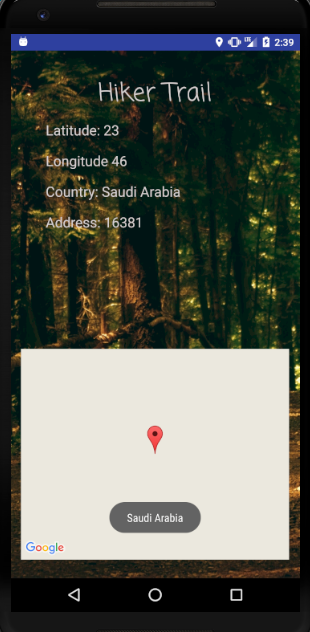
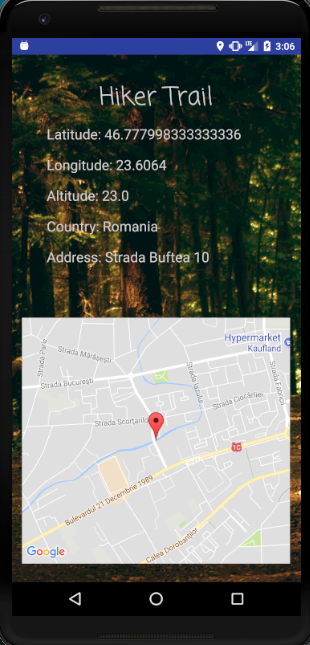
Altitude add

diff --git a/app/src/main/java/com/example/iliutaadrian/hikerwatch/MainActivity.java b/app/src/main/java/com/example/iliutaadrian/hikerwatch/MainActivity.java
@@ -14,7 +14,6 @@ import android.support.v4.app.ActivityCompat;
 import android.support.v4.app.FragmentActivity;
 import android.support.v4.content.ContextCompat;
 import android.widget.TextView;
-import android.widget.Toast;
 
 import com.google.android.gms.maps.CameraUpdateFactory;
 import com.google.android.gms.maps.GoogleMap;
@@ -31,6 +30,7 @@ import java.util.Locale;
 public class MainActivity extends FragmentActivity implements OnMapReadyCallback {
     TextView latitudeText;
     TextView longitudeText;
+    TextView altitudeText;
     TextView countryText;
     TextView adressText;
 
@@ -49,6 +49,7 @@ public class MainActivity extends FragmentActivity implements OnMapReadyCallback
         longitudeText = findViewById(R.id.longitudeText);
         countryText = findViewById(R.id.countryText);
         adressText = findViewById(R.id.adressText);
+        altitudeText = findViewById(R.id.altitudeText);
     }
 
     @Override
@@ -58,6 +59,25 @@ public class MainActivity extends FragmentActivity implements OnMapReadyCallback
             if (grantResults.length > 0 && grantResults[0] == PackageManager.PERMISSION_GRANTED) {
                 locationManager.requestLocationUpdates(LocationManager.GPS_PROVIDER, 5, 10, locationListener);
             }
+        }
+    }
+
+    public void verifyPermision(){
+        if (ContextCompat.checkSelfPermission(this, Manifest.permission.ACCESS_FINE_LOCATION) != PackageManager.PERMISSION_GRANTED) {
+            ActivityCompat.requestPermissions(this, new String[]{Manifest.permission.ACCESS_FINE_LOCATION}, 1);
+        }
+        else{
+            locationManager.requestLocationUpdates(LocationManager.GPS_PROVIDER, 5, 10, locationListener);
+            Location lastLocation = locationManager.getLastKnownLocation(LocationManager.GPS_PROVIDER);
+            map.clear();
+            LatLng location = new LatLng(lastLocation.getLatitude(), lastLocation.getLongitude());
+
+            map.addMarker(new MarkerOptions()
+                    .position(location)
+                    .title("My Location")
+                    .icon(BitmapDescriptorFactory
+                            .defaultMarker(BitmapDescriptorFactory.HUE_RED)));
+            map.moveCamera(CameraUpdateFactory.newLatLngZoom(location, 15));
         }
     }
 
@@ -82,9 +102,9 @@ public class MainActivity extends FragmentActivity implements OnMapReadyCallback
                 try{
                     List<Address> addressList = geocoder.getFromLocation(location.getLatitude(), location.getLongitude(), 1);
                     if(addressList != null && addressList.size()>0){
-                        Toast.makeText(MainActivity.this, addressList.get(0).getCountryName(),Toast.LENGTH_LONG).show();
-                        latitudeText.setText("Latitude: "+(int) addressList.get(0).getLatitude());
-                        longitudeText.setText("Longitude "+(int) addressList.get(0).getLongitude());
+                        latitudeText.setText("Latitude: "+location.getLatitude());
+                        longitudeText.setText("Longitude: "+location.getLongitude());
+                        altitudeText.setText("Altitude: "+location.getAltitude());
                         countryText.setText("Country: "+addressList.get(0).getCountryName());
                         adressText.setText("Address: "+addressList.get(0).getAddressLine(0));
                     }
@@ -103,22 +123,6 @@ public class MainActivity extends FragmentActivity implements OnMapReadyCallback
             public void onProviderDisabled(String s) {}
         };
 
-        if (ContextCompat.checkSelfPermission(this, Manifest.permission.ACCESS_FINE_LOCATION) != PackageManager.PERMISSION_GRANTED) {
-            ActivityCompat.requestPermissions(this, new String[]{Manifest.permission.ACCESS_FINE_LOCATION}, 1);
-        }
-        else{
-            locationManager.requestLocationUpdates(LocationManager.GPS_PROVIDER, 0, 0, locationListener);
-            Location lastLocation = locationManager.getLastKnownLocation(LocationManager.GPS_PROVIDER);
-            map.clear();
-            LatLng location = new LatLng(lastLocation.getLatitude(), lastLocation.getLongitude());
-
-            map.addMarker(new MarkerOptions()
-                    .position(location)
-                    .title("My Location")
-                    .icon(BitmapDescriptorFactory
-                            .defaultMarker(BitmapDescriptorFactory.HUE_RED)));
-            map.moveCamera(CameraUpdateFactory.newLatLngZoom(location, 15));
-        }
-
+        verifyPermision();
     }
 }
